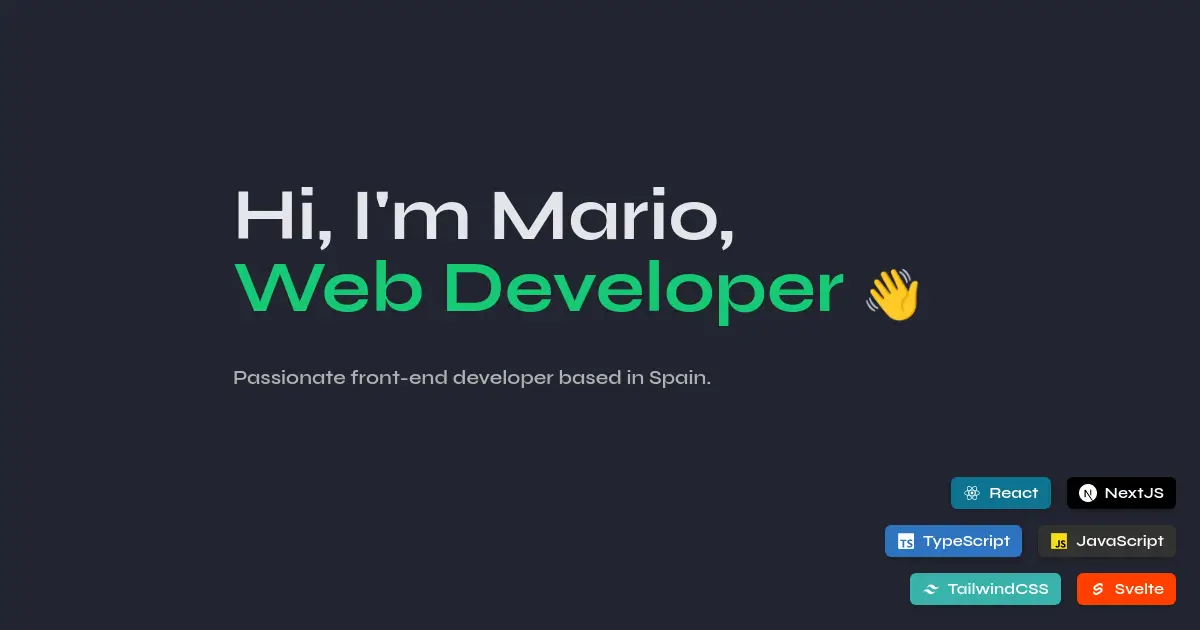
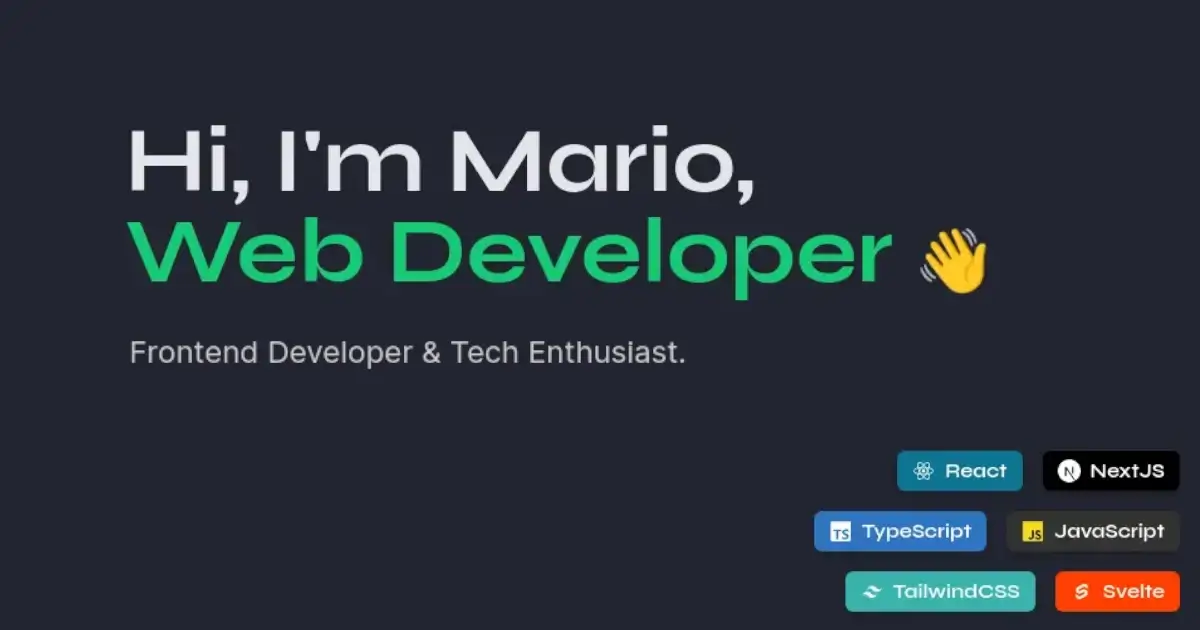
Added social images, rss and style changes

Changed region(s): [[0.0925, 0.181, 0.8325, 0.5127], [0.6783, 0.6937, 0.9867, 0.9952], [0.0925, 0.5429, 0.5858, 0.6333]]

diff --git a/src/pages/rss.xml.js b/src/pages/rss.xml.js
@@ -1,0 +1,16 @@
+import rss from '@astrojs/rss';
+import { getCollection } from 'astro:content';
+import { SITE_TITLE, SITE_DESCRIPTION } from '../consts';
+
+export async function get(context) {
+	const posts = await getCollection('blog');
+	return rss({
+		title: SITE_TITLE,
+		description: SITE_DESCRIPTION,
+		site: context.site,
+		items: posts.map((post) => ({
+			...post.data,
+			link: `/blog/${post.slug}/`,
+		})),
+	});
+}

diff --git a/src/components/Tool.svelte b/src/components/Tool.svelte
@@ -8,7 +8,7 @@
 <div
   class="bg-pf-dark-2 h-44 aspect-video p-4 flex flex-col justify-between rounded-md shadow-md"
 >
-  <h3 class="text-lg sm:text-xl font-bold font-display text-pf-light">
+  <h3 class="text-lg font-semibold text-pf-light">
     {title}
   </h3>
   <p class="font-semibold">

diff --git a/src/content/config.ts b/src/content/config.ts
@@ -13,7 +13,8 @@ const blog = defineCollection({
     updatedDate: z
       .string()
       .optional()
-      .transform((str) => (str ? new Date(str) : undefined))
+      .transform((str) => (str ? new Date(str) : undefined)),
+    image: z.string()
   })
 })
 

diff --git a/src/consts.ts b/src/consts.ts
@@ -1,2 +1,3 @@
 export const SITE_TITLE = 'Mario Pérez Hurtado • Portfolio'
-export const SITE_DESCRIPTION = 'Frontend Developer & Tech Enthusiast.'
+export const SITE_DESCRIPTION =
+  'Frontend Developer & Tech Enthusiast. I like building things.'
